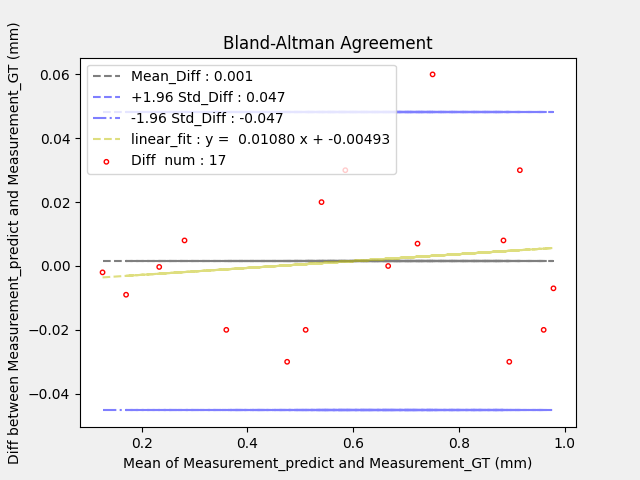
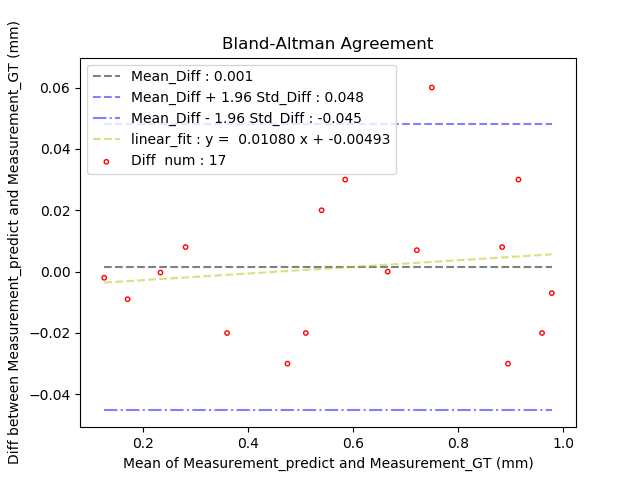
Fix plot and legend bugs in Python.

diff --git a/Python/Correlation_Agreement.py b/Python/Correlation_Agreement.py
@@ -6,7 +6,7 @@ Email: yulvchi@qq.com
 Date: 2022-02-11 14:55:18
 Motto: Entities should not be multiplied unnecessarily.
 LastEditors: Shuangchi He
-LastEditTime: 2022-02-13 22:28:24
+LastEditTime: 2022-02-15 12:28:37
 FilePath: /Correlation_and_Agreement_Analysis/Python/Correlation_Agreement.py
 Description: Statistical Analysis for Pearson Correlation and Bland-Altman Agreement
 '''
@@ -50,7 +50,7 @@ def plot_Pearson_Correlation(X, Y, linefit_TF=False, hist_TF=False,
 
     if linefit_TF:
         a, b, r = linear_fit(X, Y)  # Linear fit.
-        ax1.plot(X, a * X + b, 'b--', label="linear_fit : y = %8.5f x + %8.5f ,\npearson coefficient : %8.5f" %
+        ax1.plot(sort(X), sort(a * X + b), 'b--', label="linear_fit : y = %8.5f x + %8.5f ,\npearson coefficient : %8.5f" %
                  (a, b, r), alpha=0.4)
         print('linear_fit: y = {} x + {}\npearson coefficient: {}\n'.format(a, b, r))
 
@@ -77,23 +77,23 @@ def plot_Bland_Altman_Agreement(X, Y, linefit_TF=False,
     mean_diff = np.mean(data_diff)  # Mean of difference between two measurements.
     std_diff = np.std(data_diff, ddof=1)  # Std deviation of difference between two measurements.
     # Python np.std divides by N by default. Set ddof=1 to divide by N-1.
-    print('data_mean: {}\ndata_diff: {}\nDiff num: {}\nMean_Diff: {}\nStd_Diff: {}\n+1.96 Std_Diff: {}\n-1.96 Std_Diff: -{}'.format(
-        data_mean, data_diff, len(X), mean_diff, std_diff, 1.96 * std_diff, 1.96 * std_diff))
+    print('data_mean: {}\ndata_diff: {}\nDiff num: {}\nMean_Diff: {}\nStd_Diff: {}\nnMean_Diff+1.96 Std_Diff: {}\nnMean_Diff-1.96 Std_Diff: {}'.format(
+        data_mean, data_diff, len(X), mean_diff, std_diff, mean_diff + 1.96 * std_diff, mean_diff - 1.96 * std_diff))
 
     plt.gcf().set_facecolor(np.ones(3) * 240 / 255)
     plt.scatter(data_mean, data_diff, s=10, facecolors='none', edgecolors='r',
                 label='Diff  num : %d' % len(X), linewidth=1)
 
-    plt.plot(data_mean, mean_diff * np.ones((len(data_mean), 1), dtype=np.uint8), 'k--',
+    plt.plot(sort(data_mean), sort(mean_diff * np.ones((len(data_mean), 1), dtype=np.uint8)), 'k--',
              label='Mean_Diff : %5.3f' % mean_diff, alpha=0.5)  # Mean difference line.
-    plt.plot(data_mean, (mean_diff + 1.96 * std_diff) * np.ones((len(data_mean), 1), dtype=np.uint8), 'b--',
-             label='+1.96 Std_Diff : %5.3f' % (1.96 * std_diff), alpha=0.5)  # Mean plus 1.96*Std_Diff line.
-    plt.plot(data_mean, (mean_diff - 1.96 * std_diff) * np.ones((len(data_mean), 1), dtype=np.uint8), 'b-.',
-             label='-1.96 Std_Diff : %5.3f' % (-1.96 * std_diff), alpha=0.5)  # Mean minus 1.96*Std_Diff line.
+    plt.plot(sort(data_mean), sort((mean_diff + 1.96 * std_diff) * np.ones((len(data_mean), 1), dtype=np.uint8)), 'b--',
+             label='Mean_Diff + 1.96 Std_Diff : %5.3f' % (mean_diff + 1.96 * std_diff), alpha=0.5)  # Mean plus 1.96*Std_Diff line.
+    plt.plot(sort(data_mean), sort((mean_diff - 1.96 * std_diff) * np.ones((len(data_mean), 1), dtype=np.uint8)), 'b-.',
+             label='Mean_Diff - 1.96 Std_Diff : %5.3f' % (mean_diff - 1.96 * std_diff), alpha=0.5)  # Mean minus 1.96*Std_Diff line.
 
     if linefit_TF:
         a, b, r = linear_fit(data_mean, data_diff)  # Linear fit.
-        plt.plot(data_mean, data_mean * a + b, 'y--',
+        plt.plot(sort(data_mean), sort(data_mean * a + b), 'y--',
                  label="linear_fit : y = %8.5f x + %8.5f" % (a, b), alpha=0.5)
         print('linear_fit: y = {} x + {}'.format(a, b))
 
